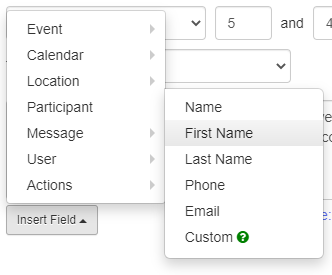
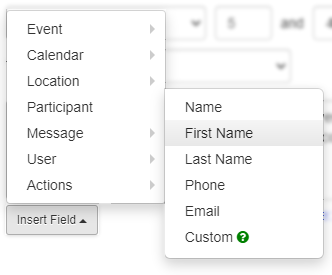
More reminder content

diff --git a/docs/computerskills/backupdata.md b/docs/computerskills/backupdata.md
@@ -14,67 +14,67 @@ This guide will show you how to backup your data on Windows 10 and Windows 7. Th
 
 1. Find the important areas to backup. You will want to save all files from the following libraries: Desktop, Downloads, Documents, Pictures, Music, and Videos.
 
-     <a href="/assets/computerskills/backup1.png"><img src="/assets/computerskills/backup1.png" /></a>
+     <a class="image" href="/assets/computerskills/backup1.png"><img src="/assets/computerskills/backup1.png" /></a>
 
 2. Prepare your backup location.
      1. If you are using a cloud location, continue to use the below steps, following that platform’s procedures for creating new folders and uploading files/folders.
      2. Create folders for each library you are backing up. To do this, click Home in the Ribbon Menu and select New folder under the New category. A new folder will appear and you will be prompted to enter a name. Once the name is entered the folder is created.
 
-          <a href="/assets/computerskills/backup2.png"><img src="/assets/computerskills/backup2.png" /></a>
+          <a class="image" href="/assets/computerskills/backup2.png"><img src="/assets/computerskills/backup2.png" /></a>
 
      3. Your backup location should now look like the below image. You should have an empty folder for each location you plan to backup.
 
-          <a href="/assets/computerskills/backup3.png"><img src="/assets/computerskills/backup3.png" /></a>
+          <a class="image" href="/assets/computerskills/backup3.png"><img src="/assets/computerskills/backup3.png" /></a>
 
 3. Begin backing up your data.
      1. Go to the folder you want to backup and select all the files. Either press Ctrl + A or click the checkbox at the top of the file list to select everything.
 
-          <a href="/assets/computerskills/backup4.png"><img src="/assets/computerskills/backup4.png" /></a>
+          <a class="image" href="/assets/computerskills/backup4.png"><img src="/assets/computerskills/backup4.png" /></a>
 
      2. Drag the files to the new location. Ensure the tooltip says Copy to [location]. Instead of dragging, you can also press Ctrl+C to copy the selected files and paste them using Ctrl+V into the new location.
 
-          <a href="/assets/computerskills/backup5.png"><img src="/assets/computerskills/backup5.png" /></a>
+          <a class="image" href="/assets/computerskills/backup5.png"><img src="/assets/computerskills/backup5.png" /></a>
 
      3. The transfer should begin. Do not interrupt this process.
 
-          <a href="/assets/computerskills/backup6.png"><img src="/assets/computerskills/backup6.png" /></a>
+          <a class="image" href="/assets/computerskills/backup6.png"><img src="/assets/computerskills/backup6.png" /></a>
 
      4. Once the transfer is finished, ensure all your files are there. Check any folders to see that subdirectories copied over correctly.
 
-          <a href="/assets/computerskills/backup7.png"><img src="/assets/computerskills/backup7.png" /></a>
+          <a class="image" href="/assets/computerskills/backup7.png"><img src="/assets/computerskills/backup7.png" /></a>
 
      5. Repeat this process for all libraries until all your data is backed up. Don’t forget to safely eject your USB or hard drive if you are using a USB device!
 
-          <a href="/assets/computerskills/backup8.png"><img src="/assets/computerskills/backup8.png" /></a>
+          <a class="image" href="/assets/computerskills/backup8.png"><img src="/assets/computerskills/backup8.png" /></a>
 
 ## Windows 7
 
 1. Find the important areas to backup. You will want to save all files from the following libraries: Desktop, Downloads, Documents, Pictures, Music, and Videos.
 
-     <a href="/assets/computerskills/7backup1.png"><img src="/assets/computerskills/7backup1.png" /></a>
+     <a class="image" href="/assets/computerskills/7backup1.png"><img src="/assets/computerskills/7backup1.png" /></a>
 
 2. Prepare your backup location.
      1. If you are using a cloud location, continue to use the below steps, following that platform’s procedures for creating new folders and uploading files/folders.
      2. Create folders for each library you are backing up. To do this, click New folder on the menu bar. You will be prompted to enter a name for the folder. Type a name and the folder will be created.
 
-          <a href="/assets/computerskills/7backup2.png"><img src="/assets/computerskills/7backup2.png" /></a><a href="/assets/computerskills/7backup3.png"><img src="/assets/computerskills/7backup3.png" /></a>
+          <a class="image" href="/assets/computerskills/7backup2.png"><img src="/assets/computerskills/7backup2.png" /></a><a class="image" href="/assets/computerskills/7backup3.png"><img src="/assets/computerskills/7backup3.png" /></a>
 
      3. Your backup location should now look like the below image. You should have an empty folder for each location you plan to backup.
 
-          <a href="/assets/computerskills/7backup4.png"><img src="/assets/computerskills/7backup4.png" /></a>
+          <a class="image" href="/assets/computerskills/7backup4.png"><img src="/assets/computerskills/7backup4.png" /></a>
 
 3. Begin backing up your data.
      1. Go to the folder you want to backup and select all the files. Either press Ctrl + A or click and drag over the desired files.
 
-          <a href="/assets/computerskills/7backup5.png"><img src="/assets/computerskills/7backup5.png" /></a>
+          <a class="Image" href="/assets/computerskills/7backup5.png"><img src="/assets/computerskills/7backup5.png" /></a>
 
      2. Drag the files to your backup location. Ensure the tooltip says Copy to [location] rather than Move to [location]. You can press and hold Ctrl while dragging to force a copy. Instead of dragging, you can also press Ctrl+C to copy the selected files and paste them using Ctrl+V into the new location.
 
-          <a href="/assets/computerskills/7backup6.png"><img src="/assets/computerskills/7backup6.png" /></a>
+          <a class="image" href="/assets/computerskills/7backup6.png"><img src="/assets/computerskills/7backup6.png" /></a>
 
      3. Once the transfer is complete, ensure all your files are present. Check all subdirectories to make sure they transferred over successfully.
 
-          <a href="/assets/computerskills/7backup7.png"><img src="/assets/computerskills/7backup7.png" /></a>
+          <a class="image" href="/assets/computerskills/7backup7.png"><img src="/assets/computerskills/7backup7.png" /></a>
 
      4. Repeat this process for all libraries until all your data is backed up. When you are finished, don’t forget to safely eject your USB drive (if you are using one).
 
@@ -87,20 +87,20 @@ The procedure for each cloud storage location will differ. Refer to the official
 2. Begin preparing your storage location for the files.
      1. Create a new folder for your backup. Click New > Folder and give it a name (i.e. Backup).
 
-          <a href="/assets/computerskills/drivebackup1.png"><img src="/assets/computerskills/drivebackup1.png" /></a><a href="/assets/computerskills/drivebackup2.png"><img src="/assets/computerskills/drivebackup2.png" /></a>
+          <a class="image" href="/assets/computerskills/drivebackup1.png"><img src="/assets/computerskills/drivebackup1.png" /></a><a class="image" href="/assets/computerskills/drivebackup2.png"><img src="/assets/computerskills/drivebackup2.png" /></a>
 
      2. Navigate to your new folder by double-clicking on it. Make a new folder for each library you are backing up.
 
-          <a href="/assets/computerskills/drivebackup3.png"><img src="/assets/computerskills/drivebackup3.png" /></a><a href="/assets/computerskills/drivebackup4.png"><img src="/assets/computerskills/drivebackup4.png" /></a>
+          <a class="image" href="/assets/computerskills/drivebackup3.png"><img src="/assets/computerskills/drivebackup3.png" /></a><a class="image" href="/assets/computerskills/drivebackup4.png"><img src="/assets/computerskills/drivebackup4.png" /></a>
 
 3. Begin uploading files to Google Drive, storing them in their corresponding folders.
      1. You can drag and drop selected files into your directory in Drive to upload them. To do this, select all files you’d like to save and drag them to the Drive window. If you need assistance on selecting files, refer to the above OS-specific tutorials.
 
-          <a href="/assets/computerskills/drivebackup5.png"><img src="/assets/computerskills/drivebackup5.png" /></a>
+          <a class="image" href="/assets/computerskills/drivebackup5.png"><img src="/assets/computerskills/drivebackup5.png" /></a>
 
      2. Alternatively, you can upload by folder to save the entire contents of a directory to Drive. Click New > Folder upload and select the folder(s) you’d like to add.
 
-          <a href="/assets/computerskills/drivebackup6.png"><img src="/assets/computerskills/drivebackup6.png" /></a><a href="/assets/computerskills/drivebackup7.png"><img src="/assets/computerskills/drivebackup7.png" /></a>
+          <a class="image" href="/assets/computerskills/drivebackup6.png"><img src="/assets/computerskills/drivebackup6.png" /></a><a class="image" href="/assets/computerskills/drivebackup7.png"><img src="/assets/computerskills/drivebackup7.png" /></a>
 
      3. Repeat the uploading process until all files you want backed up are stored in your Google Drive. Double-check each directory and subdirectories to ensure all files transferred correctly.
 
@@ -109,20 +109,20 @@ The procedure for each cloud storage location will differ. Refer to the official
 2. Begin preparing your OneDrive storage location.
      1. Create a new folder for your backup (i.e. Backups). To do this, click New > Folder and enter a name.
 
-          <a href="/assets/computerskills/ODbackup1.png"><img src="/assets/computerskills/ODbackup1.png" /></a><a href="/assets/computerskills/ODbackup2.png"><img src="/assets/computerskills/ODbackup2.png" /></a>
+          <a class="image" href="/assets/computerskills/ODbackup1.png"><img src="/assets/computerskills/ODbackup1.png" /></a><a class="image" href="/assets/computerskills/ODbackup2.png"><img src="/assets/computerskills/ODbackup2.png" /></a>
 
      2. Navigate into your new folder by clicking it. Create a folder for each directory you plan to back up on your OneDrive.
 
-          <a href="/assets/computerskills/ODbackup3.png"><img src="/assets/computerskills/ODbackup3.png" /></a><a href="/assets/computerskills/ODbackup4.png"><img src="/assets/computerskills/ODbackup4.png" /></a>
+          <a class="image" href="/assets/computerskills/ODbackup3.png"><img src="/assets/computerskills/ODbackup3.png" /></a><a class="image" href="/assets/computerskills/ODbackup4.png"><img src="/assets/computerskills/ODbackup4.png" /></a>
 
 3. Begin uploading files to OneDrive, storing them in their corresponding folders.
      1. You can drag and drop selected files into a OneDrive directory. For assistance selecting files, refer to the guide for your operating system above.
 
-          <a href="/assets/computerskills/ODbackup5.png"><img src="/assets/computerskills/ODbackup5.png" /></a>
+          <a class="image" href="/assets/computerskills/ODbackup5.png"><img src="/assets/computerskills/ODbackup5.png" /></a>
 
      2. Alternatively, you can upload files by folder using the Upload button. Click Upload > Folder and select the folder you want to upload.
 
-          <a href="/assets/computerskills/ODbackup6.png"><img src="/assets/computerskills/ODbackup6.png" /></a><a href="/assets/computerskills/ODbackup7.png"><img src="/assets/computerskills/ODbackup7.png" /></a>
+          <a class="image" href="/assets/computerskills/ODbackup6.png"><img src="/assets/computerskills/ODbackup6.png" /></a><a class="image" href="/assets/computerskills/ODbackup7.png"><img src="/assets/computerskills/ODbackup7.png" /></a>
 
      3. Repeat the uploading process until all files you want backed up are stored in your Google Drive. Double-check each directory and subdirectories to ensure all files transferred correctly.
 

diff --git a/docs/apptoto/reminders.md b/docs/apptoto/reminders.md
@@ -23,11 +23,11 @@ There are three types of Auto Messages in Apptoto:
 
 **Rules** can be defined for reminders. These allow certain reminders to be sent out when specific content is included in an appointment. For instance, we can define a custom data type in an event as follows:
 
-<a href="/assets/apptoto/customData.png"><img src="/assets/apptoto/customData.png" /></a>
+<a class="image" href="/assets/apptoto/customData.png"><img src="/assets/apptoto/customData.png" /></a>
 
 Then, we can create reminders using Rules that are sent only when that appointment contains the `type: class` data field.
 
-<a href="/assets/apptoto/rules.png"><img src="/assets/apptoto/rules.png" /></a>
+<a class="image" href="/assets/apptoto/rules.png"><img src="/assets/apptoto/rules.png" /></a>
 
 <hr class="divider" />
 
@@ -38,7 +38,7 @@ Then, we can create reminders using Rules that are sent only when that appointme
 
 Below is the interface of the Auto Messages page.
 
-<a href="/assets/apptoto/remindersInterface.png"><img src="/assets/apptoto/remindersInterface.png" /></a>
+<a class="image" href="/assets/apptoto/remindersInterface.png"><img src="/assets/apptoto/remindersInterface.png" /></a>
 
 Let's go over each section in the image above.
 
@@ -63,8 +63,80 @@ The message editor is where all Auto Messages are configured. Auto Messages requ
      * **Time of Day** - this determines when Auto Messages are allowed to be sent. This should always be set to **Any** or a **Custom Schedule** that encompasses the entire day. Auto Messages will NOT send outside of hours specified.
 * **Body** - the message contents. This can include text and *Fields.* Fields allow you to populate data from the appointment, such as the time of day or participant name.
 
-<a href="/assets/apptoto/messageEditor1.png"><img src="/assets/apptoto/messageEditor2.png" /></a>
+<a class="image" href="/assets/apptoto/messageEditor1.png"><img src="/assets/apptoto/messageEditor2.png" /></a>
 
-## How to Make a New Reminder
+You can insert Fields in your message body using the **Insert Field** button. To add a field, simply select the category you'd like, and click the desired field value to insert it into your message.
 
-1.
+<a class="image" href="/assets/apptoto/messageEditor3.png"><img src="/assets/apptoto/messageEditor3.png" /></a>
+
+Fields always appear in your message body surrounded by curly braces. For example: `{% raw %} {{ user.email }} {% endraw %}` represents the attendee's email address.
+
+<a class="image" href="/assets/apptoto/messageEditor5.png"><img src="/assets/apptoto/messageEditor5.png" /></a>
+
+## How to Make New Reminders
+
+### SMS Reminder
+
+SMS reminders are text messages that are sent to appointment attendee's phone numbers. Attendees can respond to these messages to preform actions (confirm/reschedule/cancel appointments, for example) or communicate with relevant staff.
+
+1. Click one of the **New Message** buttons and click **Add SMS**
+2. Fill out the information about your reminder
+     1. Name - enter a descriptive name for the reminder
+     2. Purpose - select whether this reminder should be Initial/Booking, Reminder, or Followup
+     3. When - enter the time before or after the appointment that this reminder should send
+          1. **IMPORTANT** - make sure the **Time of day** is set to either *Any* or a *Custom Schedule* encompassing the entire day
+
+          <a class="image" href="/assets/apptoto/messageEditor4.png"><img src="/assets/apptoto/messageEditor4.png" /></a>
+
+     4. Body - enter the contents of the message. Fields can be added with the **Insert Field** button.
+3. You can click Preview to see what your message will look like to the client
+
+     <a class="image" href="/assets/apptoto/messageEditor2.png"><img src="/assets/apptoto/messageEditor2.png" /></a>
+
+4. Click Done to save your Auto Message
+
+### Email Reminder
+
+Email reminders are email messages sent to participants' email addresses.
+
+1. Click one of the **New Message** buttons and select **Add Email**
+2. Fill out the information about your email reminder:
+     1. Name - enter a descriptive name for the reminder
+     2. Purpose - select whether this reminder should be Initial/Booking, Reminder, or Followup
+     3. When - enter the time before or after the appointment that this reminder should send
+          1. **IMPORTANT** - make sure the **Time of day** is set to either *Any* or a *Custom Schedule* encompassing the entire day
+
+          <a class="image" href="/assets/apptoto/messageEditor4.png"><img src="/assets/apptoto/messageEditor4.png" /></a>
+
+     4. Subject - enter the subject line of the email message
+     5. Body - enter the contents of your email message. You can use the WYSIWYG editor to format text inside your message. Fields can also be inserted using the **Insert Field** button
+3. Click Preview to view how your message will appear to the recipient
+4. Click Done to save your Auto Message
+
+
+### Voice Call Reminder
+
+Voice call reminders are audio messages sent to clients' phones. This can either take the form of a pre-recorded MP3/WAV file, or a **Text-to-Speech (TTS)** voice.
+
+1. Click one of the **New Message** buttons and choose **Add Call**
+2. Fill out the information about your call reminder:
+     1. Name - enter a descriptive name for the reminder
+     2. Purpose - select whether this reminder should be Initial/Booking, Reminder, or Followup
+     3. When - enter the time before or after the appointment that this reminder should send
+          1. **IMPORTANT** - make sure the **Time of day** is set to either *Any* or a *Custom Schedule* encompassing the entire day
+
+          <a class="image" href="/assets/apptoto/messageEditor4.png"><img src="/assets/apptoto/messageEditor4.png" /></a>
+
+     4. Body - **If using TTS**, enter the message for your client in the body. This message will be translated into speech and sent to the client
+     5. TTS Voice - select whether to use the female or male TTS voice
+6. **If you are using a recorded MP3 or WAV message:**
+     1. click the **Upload MP3/WAV** button
+     2. Select your MP3 or WAV recording file
+     3. You will know your upload completed successfully when you see two things:
+          1. You see the **Upload completed** notification in the top-right of Apptoto
+
+               <a class="image" href="/assets/apptoto/audioUpload.png"<img src="/assets/apptoto/audioUpload.png" /></a>
+
+          1. The body of the reminder has changed to include the URL to your uploaded file
+
+               <a class="image" href="/assets/apptoto/audioUpload2.png"><img src="/assets/apptoto/audioUpload2.png" /></a>
